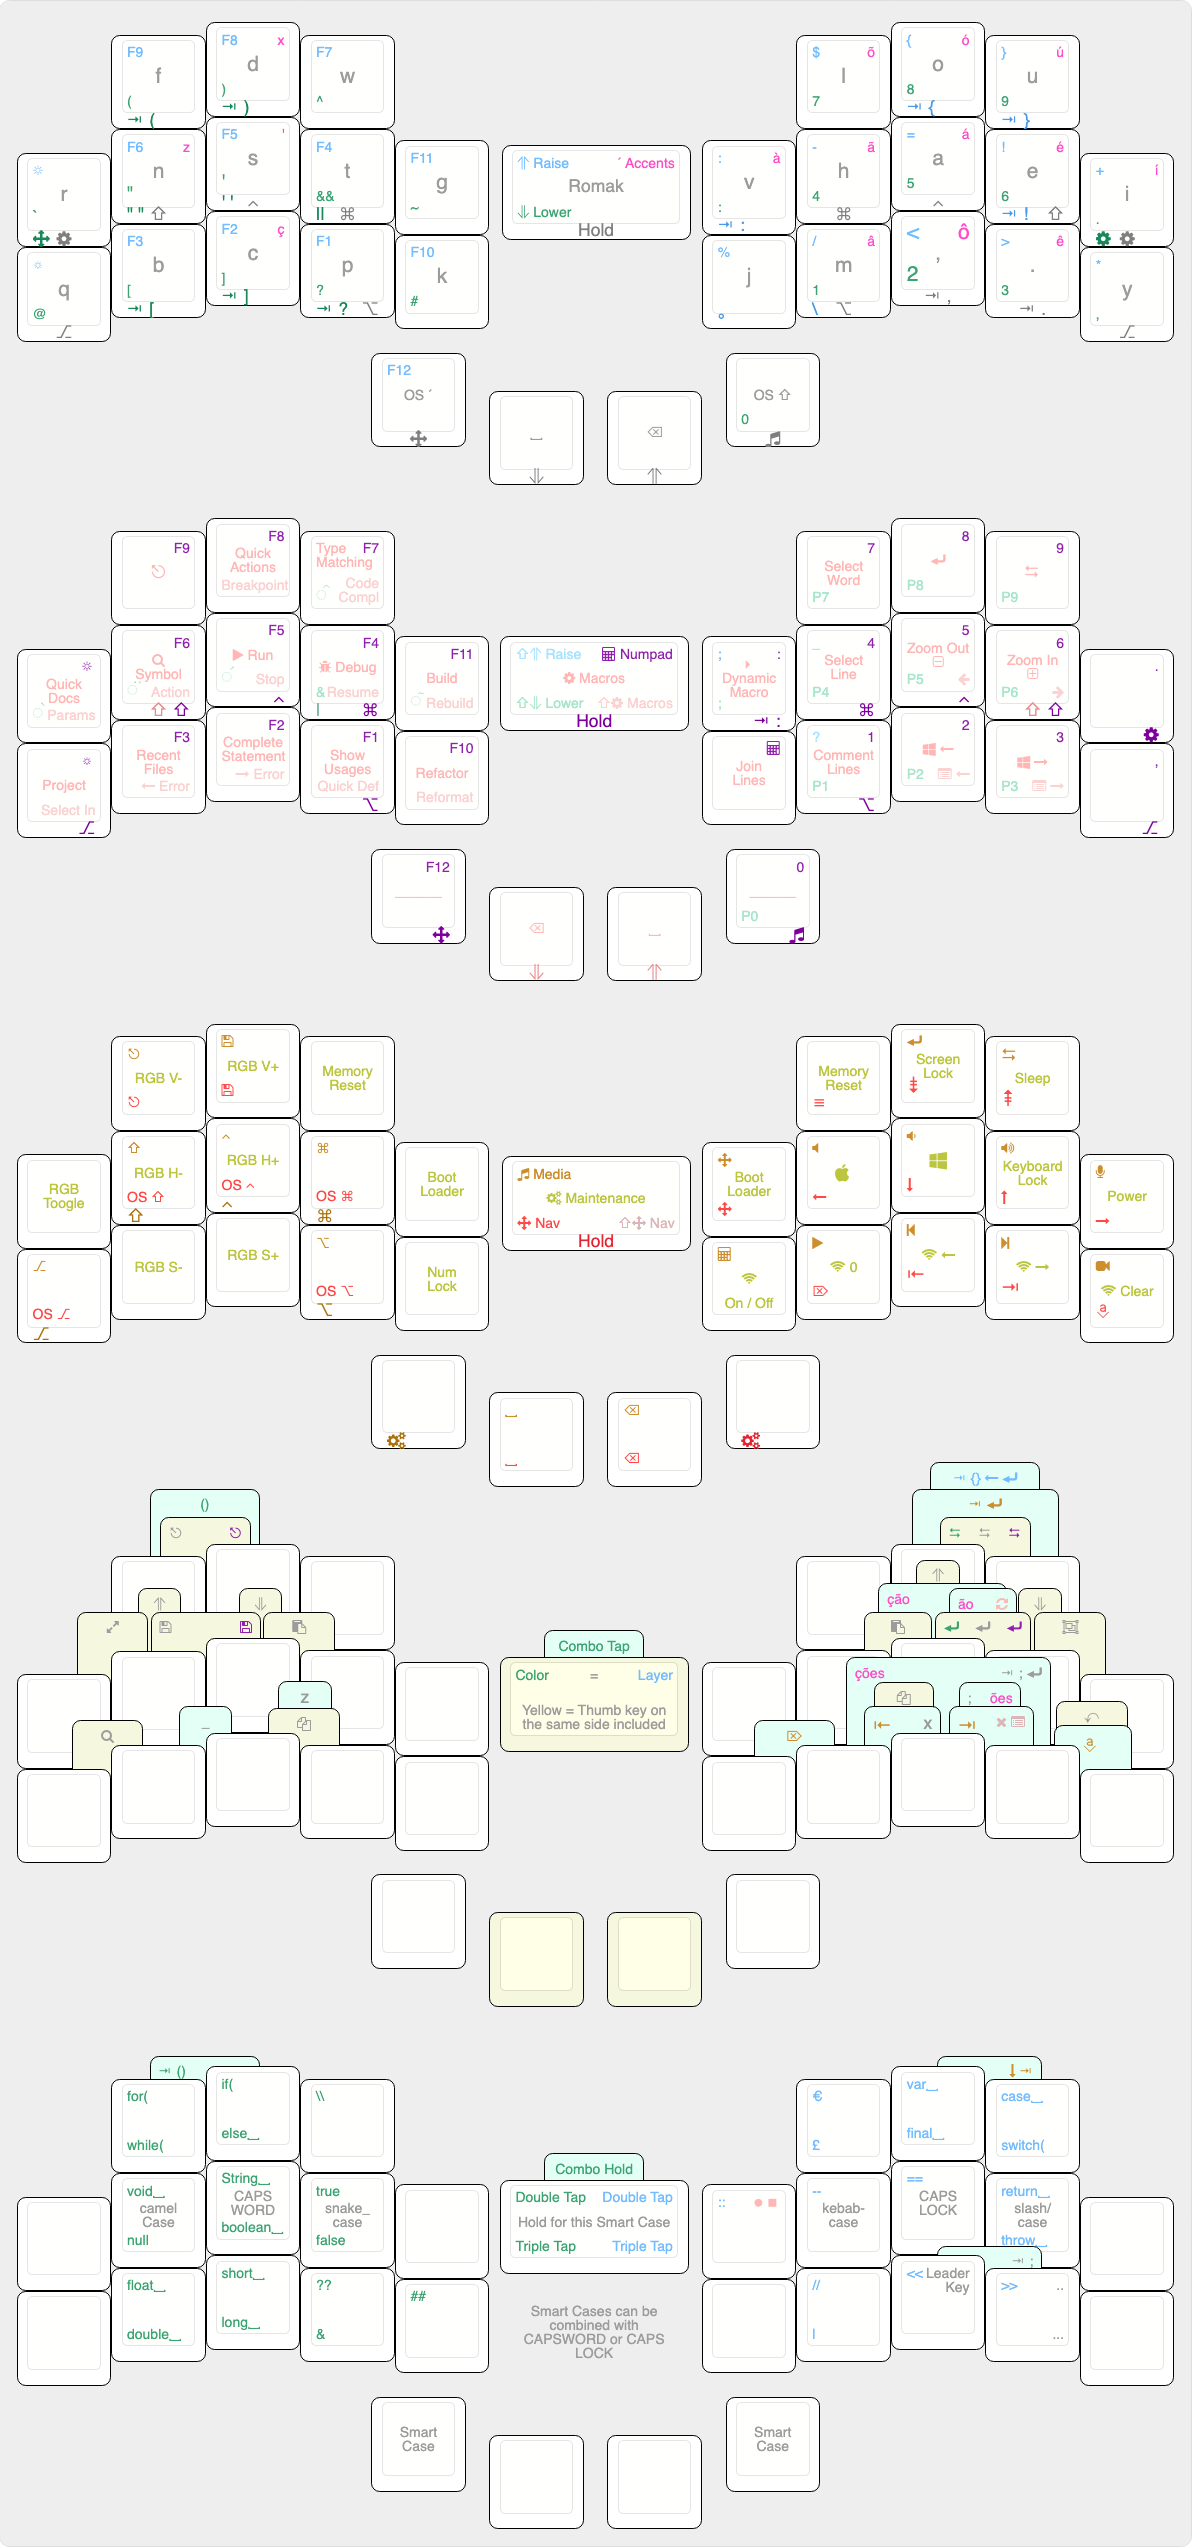
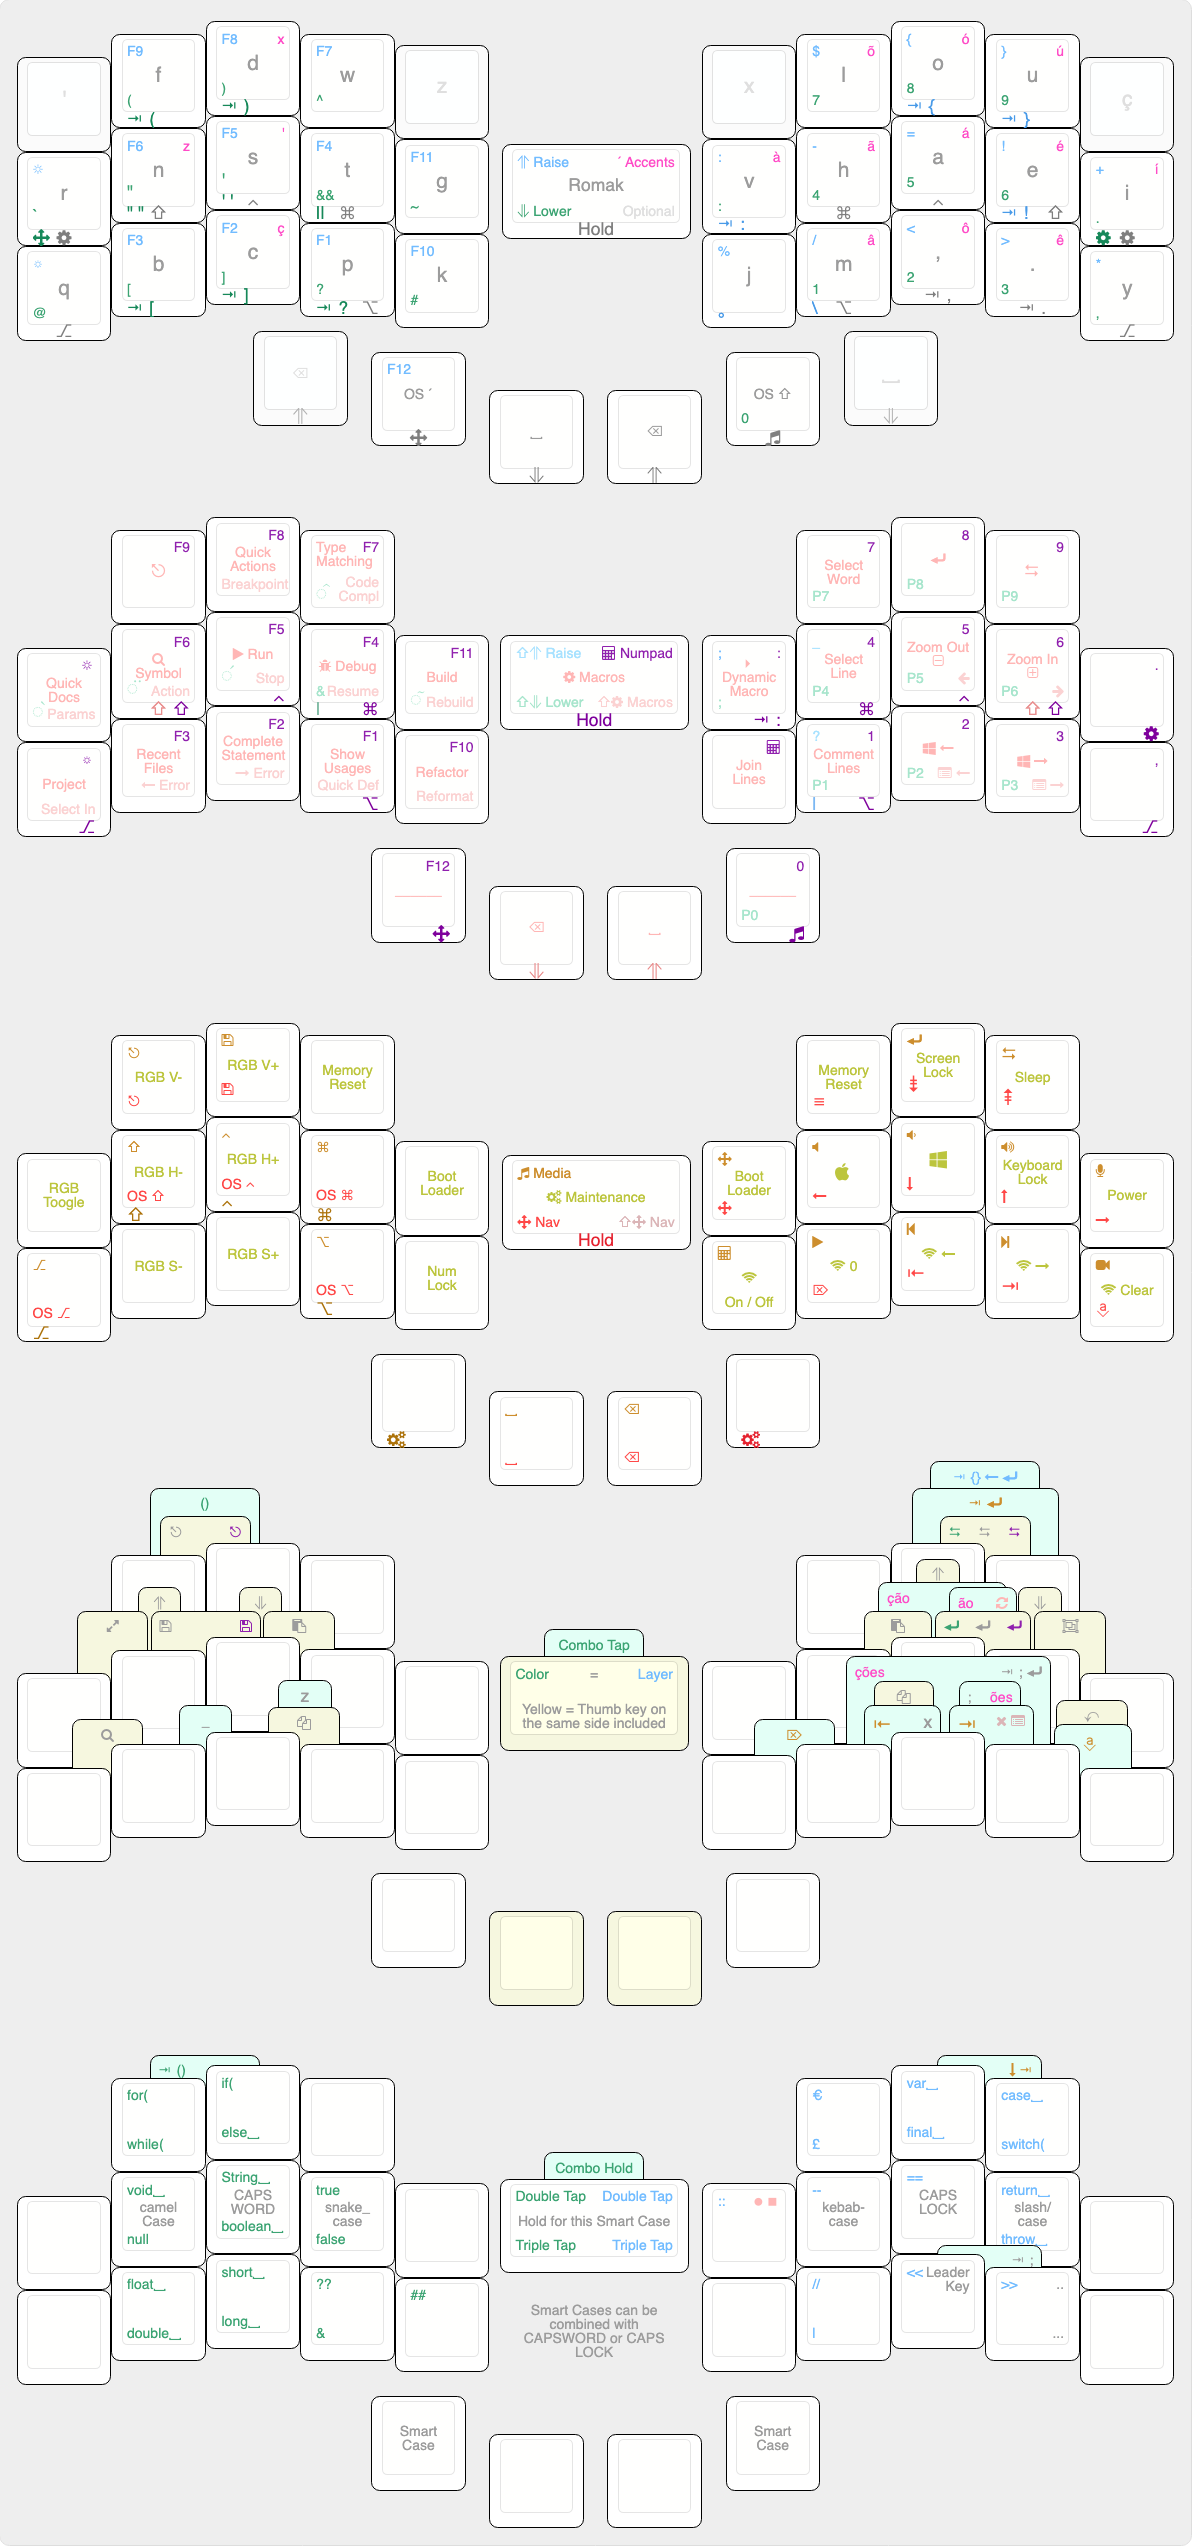
improve keymap

diff --git a/readme.md b/readme.md
@@ -2,7 +2,7 @@
  
 ## Overview
 
-A 30 keys split keyboard layout, optimized for Portuguese, English, working with numbers and software programming with VIM plugins.
+A split keyboard layout optimized for Portuguese, English, working with numbers and software programming with VIM plugins. The number of keys can vary from 30 to 36.
 
 ![img](img/overview.png)
 
